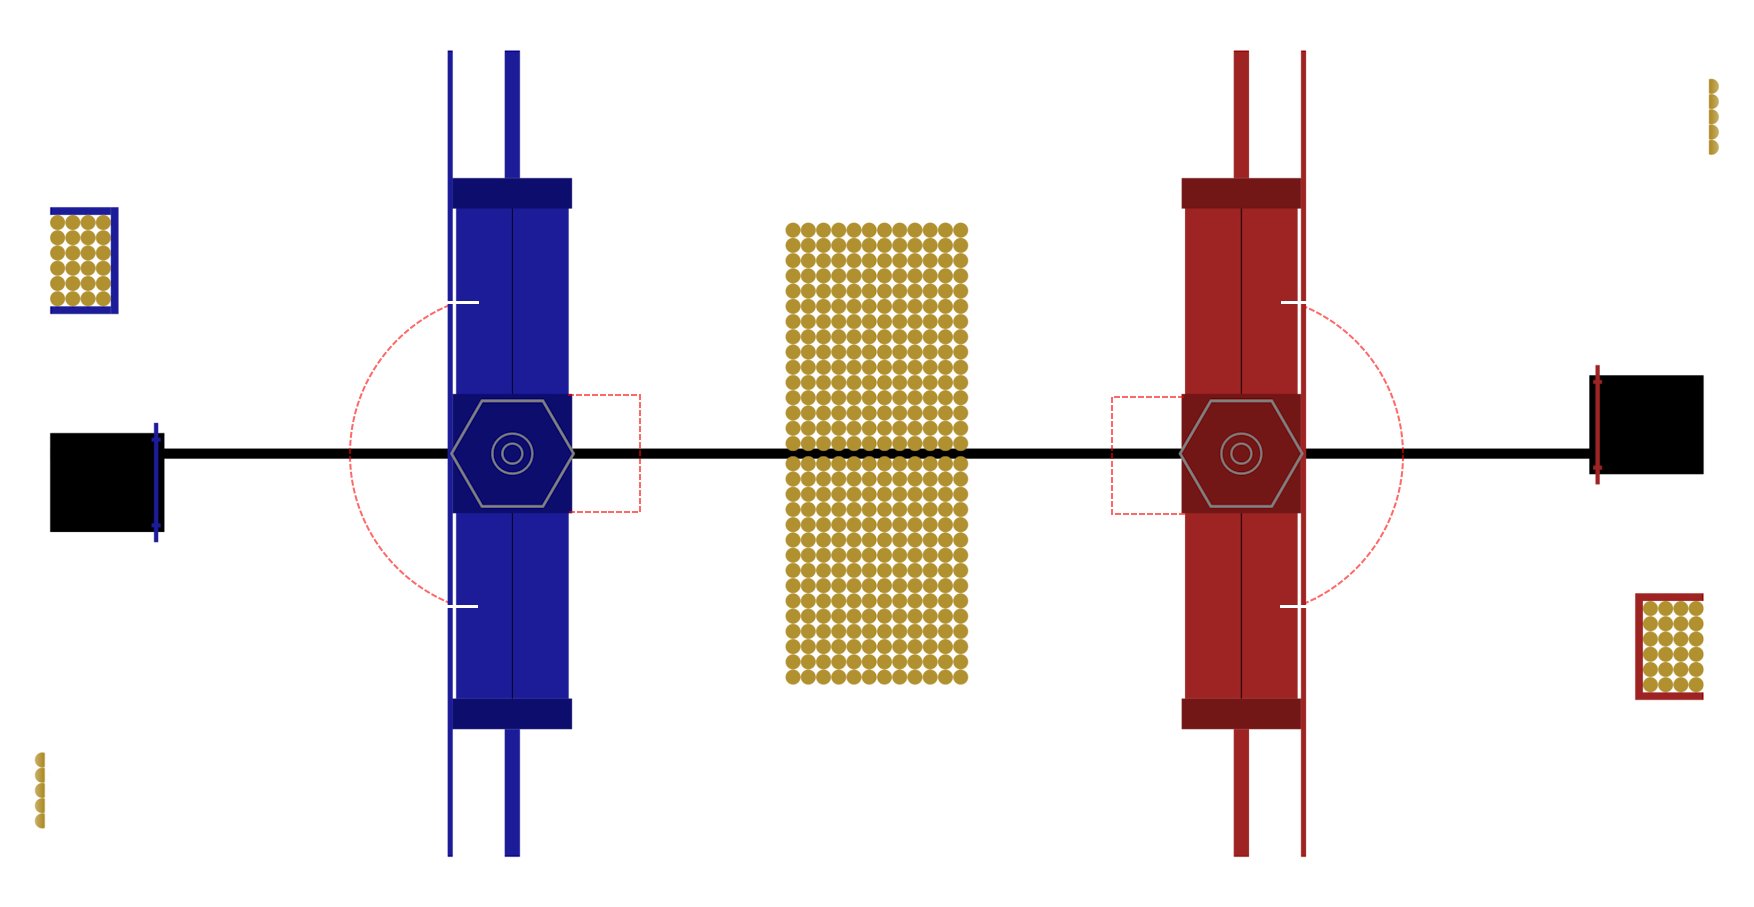
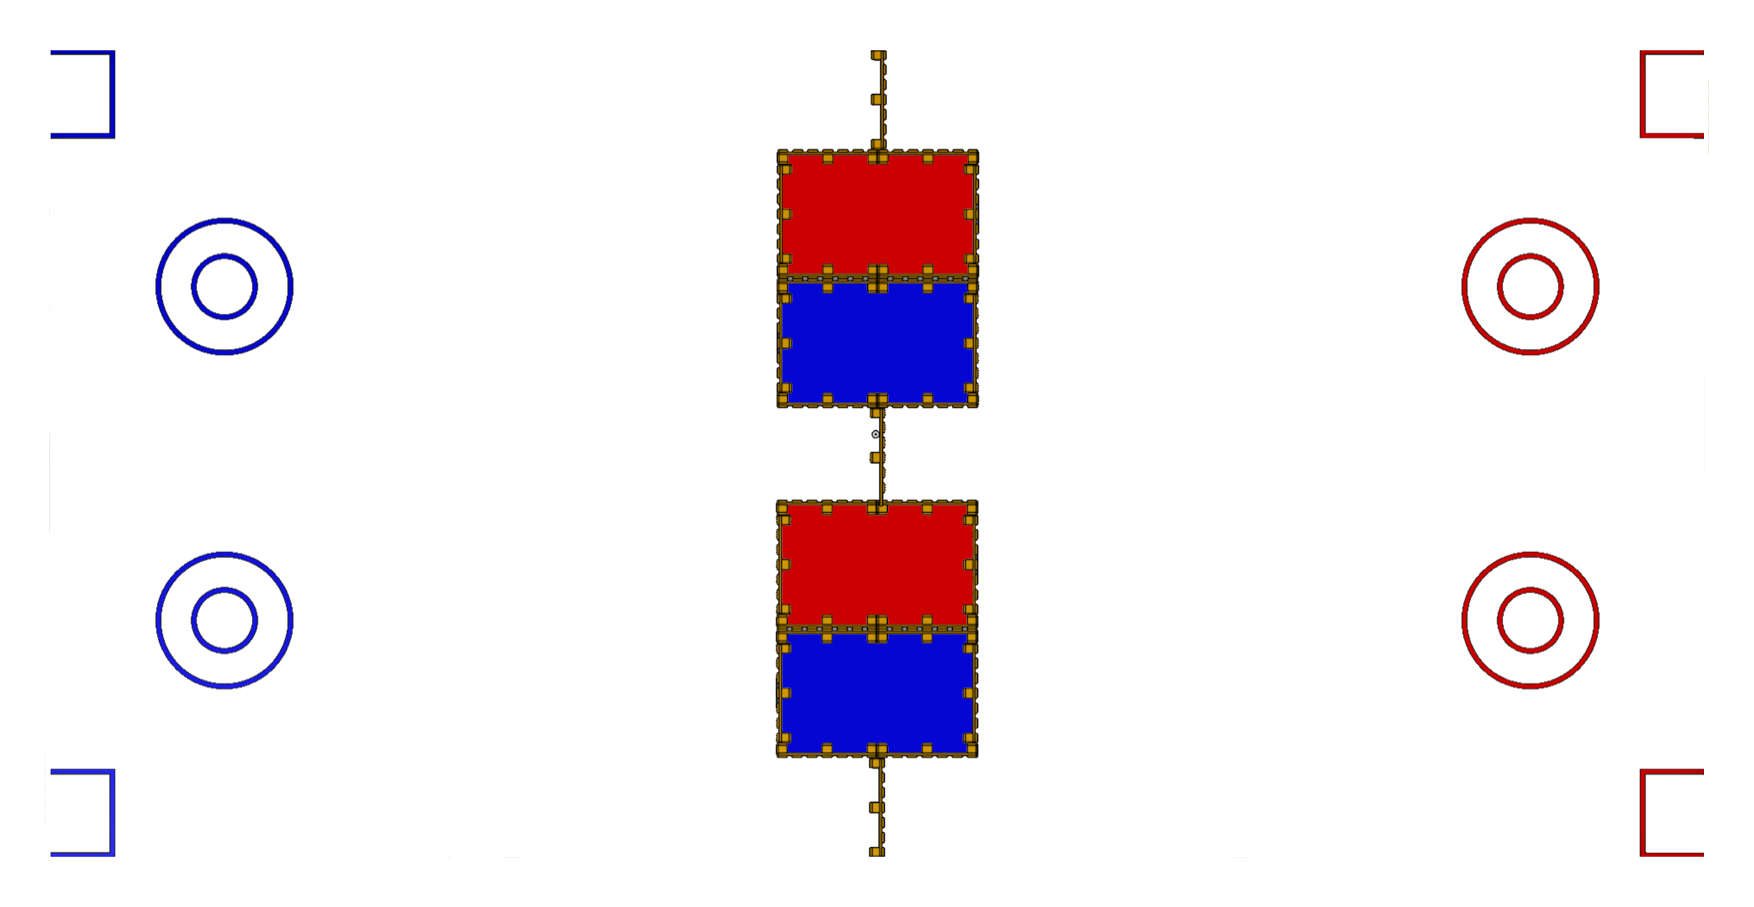
WIP - initial port/version for HBR event

diff --git a/src/ui/components/Hud/MatchStatus.svelte b/src/ui/components/Hud/MatchStatus.svelte
@@ -6,41 +6,17 @@
   const enum MatchState {
     Stopped = "STOPPED",
     Auto = "AUTO",
-    Transition = "TRANSITION",
-    Shift1 = "SHIFT_1",
-    Shift2 = "SHIFT_2",
-    Shift3 = "SHIFT_3",
-    Shift4 = "SHIFT_4",
+    Teleop = "TELEOP",
     EndGame = "END_GAME"
   }
 
   let matchTime = $derived(nt.topics.get("/Telemetry/Match/Time")?.value ?? 0 as number);
   let matchStateTime = $derived(nt.topics.get("/Telemetry/Match/StateTime")?.value ?? 0 as number);
   let matchState = $derived(nt.topics.get("/Telemetry/Match/State")?.value ?? MatchState.Stopped as MatchState);
-  let hubState = $derived(nt.topics.get("/Telemetry/Match/HubState")?.value ?? "Inactive" as string);
-  let alliance = $derived(nt.topics.get("/Telemetry/Match/Alliance")?.value as Alliance);
-  let selectedAlliance = $derived(nt.topics.get("/Telemetry/Match/SelectedAlliance")?.value as Alliance);
-
-  const getIsReturnAlertState = (): boolean => {
-    return ([MatchState.Shift1, MatchState.Shift2, MatchState.Shift3, MatchState.Shift4].includes(matchState) && hubState == "INACTIVE" && matchStateTime <= 7) || (matchState == MatchState.EndGame && matchStateTime <= 20);
-  }
-
-  let isReturnActive: boolean = $derived(getIsReturnAlertState());
 </script>
 
 <div class="main">
   <div class="state">
-    <div class="hub" class:ending={ matchTime > 0 && matchStateTime <= 5 }>
-    {#if matchTime > 0 }
-      {#if hubState == "ACTIVE" }
-        <IntentRequestActive width=240 height=240 fill="#00CC00" />
-      {:else}
-        <IntentRequestUninstall width=240 height=240 fill="#CC0000" />
-      {/if}
-    {:else}
-      <IntentRequestInactive width=240 height=240 fill="#666666" />
-    {/if}
-    </div>
     <div class="timing">
       { String(matchStateTime).padStart(2, "0") }
     </div>
@@ -49,53 +25,10 @@
     <div class="matchState">
       { matchState.replace("_", " ") }
     </div>
-    <div class="matchTime">
-      { matchTime > 0 ? matchTime : 0 }
-    </div>
   </div>
-  <div class="alliance">
-    {#if selectedAlliance != Alliance.None }
-      {#if alliance == selectedAlliance }
-        <CheckmarkOutline width=120 height=120 fill="#00CC00" />
-      {:else}
-        <CloseOutline width=120 height=120 fill="#CC0000" />
-      {/if}
-    {:else}
-      <Unknown width=120 height=120 fill="#666666" />
-    {/if}
-  </div>
-</div>
-
-<div 
-  class="return"
-  class:active={ isReturnActive }
->
-  <div class="time">{ matchStateTime }</div>
-  <ArrowShiftDown width=320 height=320 fill="#FFFF00" />
 </div>
 
 <style>
-  .return {
-    position: absolute;
-    z-index: 9999;
-    top: 0;
-    left: 0;
-    width: 100%;
-    height: 100%;
-    display: none;
-    align-items: center;
-    justify-content: center;
-    flex-direction: column;
-    opacity: .75;
-    animation: pulse-expand 500ms ease-in-out infinite;
-    &.active { display: flex; }
-
-    & .time {
-      font-size: 36rem;
-      color: var(--app-color-yellow);
-    }
-  }
-
   .main {
     position: relative;
     display: flex;
@@ -112,12 +45,6 @@
       flex-direction: row;
       align-items: center;
       gap: 1em;
-
-      & .hub {
-        &.ending {
-          animation: pulse-expand 500ms ease-in-out infinite;
-        }
-      }
 
       & .timing {
         width: 200px;
@@ -144,12 +71,6 @@
         font-size: 2rem;
         text-align: center;
       }
-    }
-
-    & .alliance {
-      display: flex;
-      flex-direction: row;
-      align-items: center;
     }
   }
 </style>

diff --git a/src/ui/components/Hud/TargetAlignment.svelte b/src/ui/components/Hud/TargetAlignment.svelte
@@ -11,18 +11,13 @@
   let robotWidth = $derived(nt.topics.get("/Telemetry/Robot/Subsystems/Drive/Bumper/Width")?.value as number);
   let isAlignedToTargetPose = $derived(nt.topics.get("/Telemetry/Robot/Subsystems/Drive/IsAlignedToTargetPose")?.value as boolean);
   let isAlignedToTargetHeading = $derived(nt.topics.get("/Telemetry/Robot/Subsystems/Drive/IsAlignedToTargetHeading")?.value as boolean);
-  let turretHeading = $derived(nt.topics.get("/Telemetry/Robot/Subsystems/Turret/Heading")?.value as number);
 
   const PIXELS_PER_METER: number = 100;
   const FIELD_BUFFER_PIXELS: number = 51;
 
   const targetZones: Record<Alliance, Record<string, { x: number, y: number, distance: number }>> = {
-    [Alliance.Blue]: {
-      "tower": { x: 1.225, y: 3.750, distance: 1.0 }
-    },
-    [Alliance.Red]: {
-      "tower": { x: 15.300, y: 4.325, distance: 1.0 }
-    },
+    [Alliance.Blue]: {},
+    [Alliance.Red]: {},
     [Alliance.None]: {}
   };
 
@@ -58,8 +53,8 @@
       style:height={`${robotWidth * PIXELS_PER_METER}px`}
       style:transform={ `translate(${ ((robotPose_?.x * PIXELS_PER_METER) + FIELD_BUFFER_PIXELS) - (robotLength * PIXELS_PER_METER ) / 2 }px, ${ -((robotPose_?.y * PIXELS_PER_METER) + FIELD_BUFFER_PIXELS) + (robotWidth * PIXELS_PER_METER) / 2 }px) rotate(${ -robotPose_?.rotation }deg)` }>
       <div class="front"><CaretDown width=96 height=96 /></div>
-      <div class="turret">
-        <div class="heading" style:transform={ `rotate(${ -turretHeading }deg)` }></div>
+      <div class="launcher">
+        <div class="heading"></div>
       </div>
     </div>
   </div>
@@ -121,10 +116,10 @@
           opacity: 0.5;
         }
 
-        & .turret {
+        & .launcher {
           position: absolute;
-          left: 10px;
-          top: 10px;
+          left: calc(50% - 20px);
+          top: calc(50% - 10px);
           width: 20px;
           height: 20px;
           border-radius: 50%;
@@ -133,8 +128,8 @@
           & .heading {
             position: absolute;
             box-sizing: border-box;
-            top: 50%;
-            left: 50%;
+            top: calc(50% - 2px);
+            left: calc(50% - 2px);
             width: 600px;
             height: 2px;
             transform-origin: 0;

diff --git a/src/ui/components/Dashboard/SensorInfo.svelte b/src/ui/components/Dashboard/SensorInfo.svelte
@@ -6,9 +6,7 @@
 
   let gyroIsConnected = $derived(nt.topics.get("/Telemetry/Robot/Sensors/Gyro/IsConnected")?.value ?? false as boolean);
   let gyroSensorValue = $derived(nt.topics.get("/Telemetry/Robot/Sensors/Gyro/Heading")?.value ?? 0 as number);
-  let hopperSensorHasTarget = $derived(nt.topics.get("/Telemetry/Robot/Sensors/Hopper/Fuel/HasTarget")?.value ?? false as boolean);
-  let hopperSensorDistance = $derived(nt.topics.get("/Telemetry/Robot/Sensors/Hopper/Fuel/Value")?.value ?? 0 as number);
-  let indexerSensorHasTarget = $derived(nt.topics.get("/Telemetry/Robot/Sensors/Indexer/Fuel/HasTarget")?.value ?? false as boolean);
+  let launcherSensorHasTarget = $derived(nt.topics.get("/Telemetry/Robot/Sensors/Proximity/Launcher/HasTarget")?.value ?? false as boolean);
 </script>
   
 <div class="main">
@@ -16,8 +14,7 @@
   <div class="sensors">
     <div><span class="label">Gyro:</span><span class="state" class:active={ gyroIsConnected }></span><span class="value">{ gyroSensorValue?.toFixed(2) ?? NaN } &deg;</span></div>
     {#if robotType == RobotType.Competition}
-    <div><span class="label">Hopper:</span><span class="state" class:active={ hopperSensorHasTarget }></span><span class="value">{ hopperSensorDistance }<span class="unit">mm</span></span></div>
-    <div><span class="label">Indexer:</span><span class="state" class:active={ indexerSensorHasTarget }></span></div>
+    <div><span class="label">Launcher:</span><span class="state" class:active={ launcherSensorHasTarget }></span></div>
     {/if}
   </div>
 </div>

diff --git a/src/ui/components/Dashboard/ControllerMap.svelte b/src/ui/components/Dashboard/ControllerMap.svelte
@@ -17,10 +17,10 @@
       stickRightX: "Rotate",
       stickRightY: "",
       stickRightButton: "",
-      triggerLeft: "",
-      bumperLeft: "Drive Over Bump",
-      triggerRight: "",
-      bumperRight: "Agitate Robot",
+      triggerLeft: "Align + Score Left",
+      bumperLeft: "",
+      triggerRight: "Align + Score Right",
+      bumperRight: "",
       buttonA: "",
       buttonB: "",
       buttonY: "",
@@ -42,15 +42,15 @@
       stickRightX: "",
       stickRightY: "",
       stickRightButton: "",
-      triggerLeft: "Run Intake",
-      bumperLeft: "Retract Intake",
-      triggerRight: "Launch Fuel",
-      bumperRight: "Agitate Hopper",
-      buttonA: "Align Turret: Target",
-      buttonB: "Launch Fuel (Demo)",
-      buttonY: "Align Turret: 0&#176;",
-      buttonX: "Eject Fuel",
-      dpadUp: "Home Turret",
+      triggerLeft: "Load Hay",
+      bumperLeft: "Grab Hay",
+      triggerRight: "",
+      bumperRight: "",
+      buttonA: "",
+      buttonB: "",
+      buttonY: "",
+      buttonX: "",
+      dpadUp: "Home Launcher",
       dpadRight: "",
       dpadDown: "Home Intake",
       dpadLeft: "",

diff --git a/src/ui/views/Hud.svelte b/src/ui/views/Hud.svelte
@@ -30,7 +30,7 @@
   <div class="row">
     <Tile class="widget">
       {#if robotType == RobotType.Competition}
-        <LauncherStatus />
+        <!-- <LauncherStatus /> -->
       {:else}
         <div class="placeholder"><img src="./assets/images/2881.png" alt="2881" /></div>
       {/if}
@@ -46,7 +46,7 @@
     </Tile>
     <Tile class="widget">
       {#if robotType == RobotType.Competition}
-        <HopperStatus />
+        <!-- <HopperStatus /> -->
       {:else}
         <div class="placeholder"><img src="./assets/images/2881.png" alt="2881" /></div>
       {/if}

diff --git a/src/ui/components/Dashboard/AutoSettings.svelte b/src/ui/components/Dashboard/AutoSettings.svelte
@@ -22,7 +22,7 @@
     { activeCommand }
   </div>
   <div class="auto">
-    <img src={ `./assets/images/autos/${ commandName }.png` } alt="" />
+    <!-- <img src={ `./assets/images/autos/${ commandName }.png` } alt="" /> -->
     {#if isCompetitionMode && activeCommand == "None" }
       <div class="noauto">
         <div class="warning"><WarningAltFilled width=120 height=120 fill="#CCCC00" /></div>
